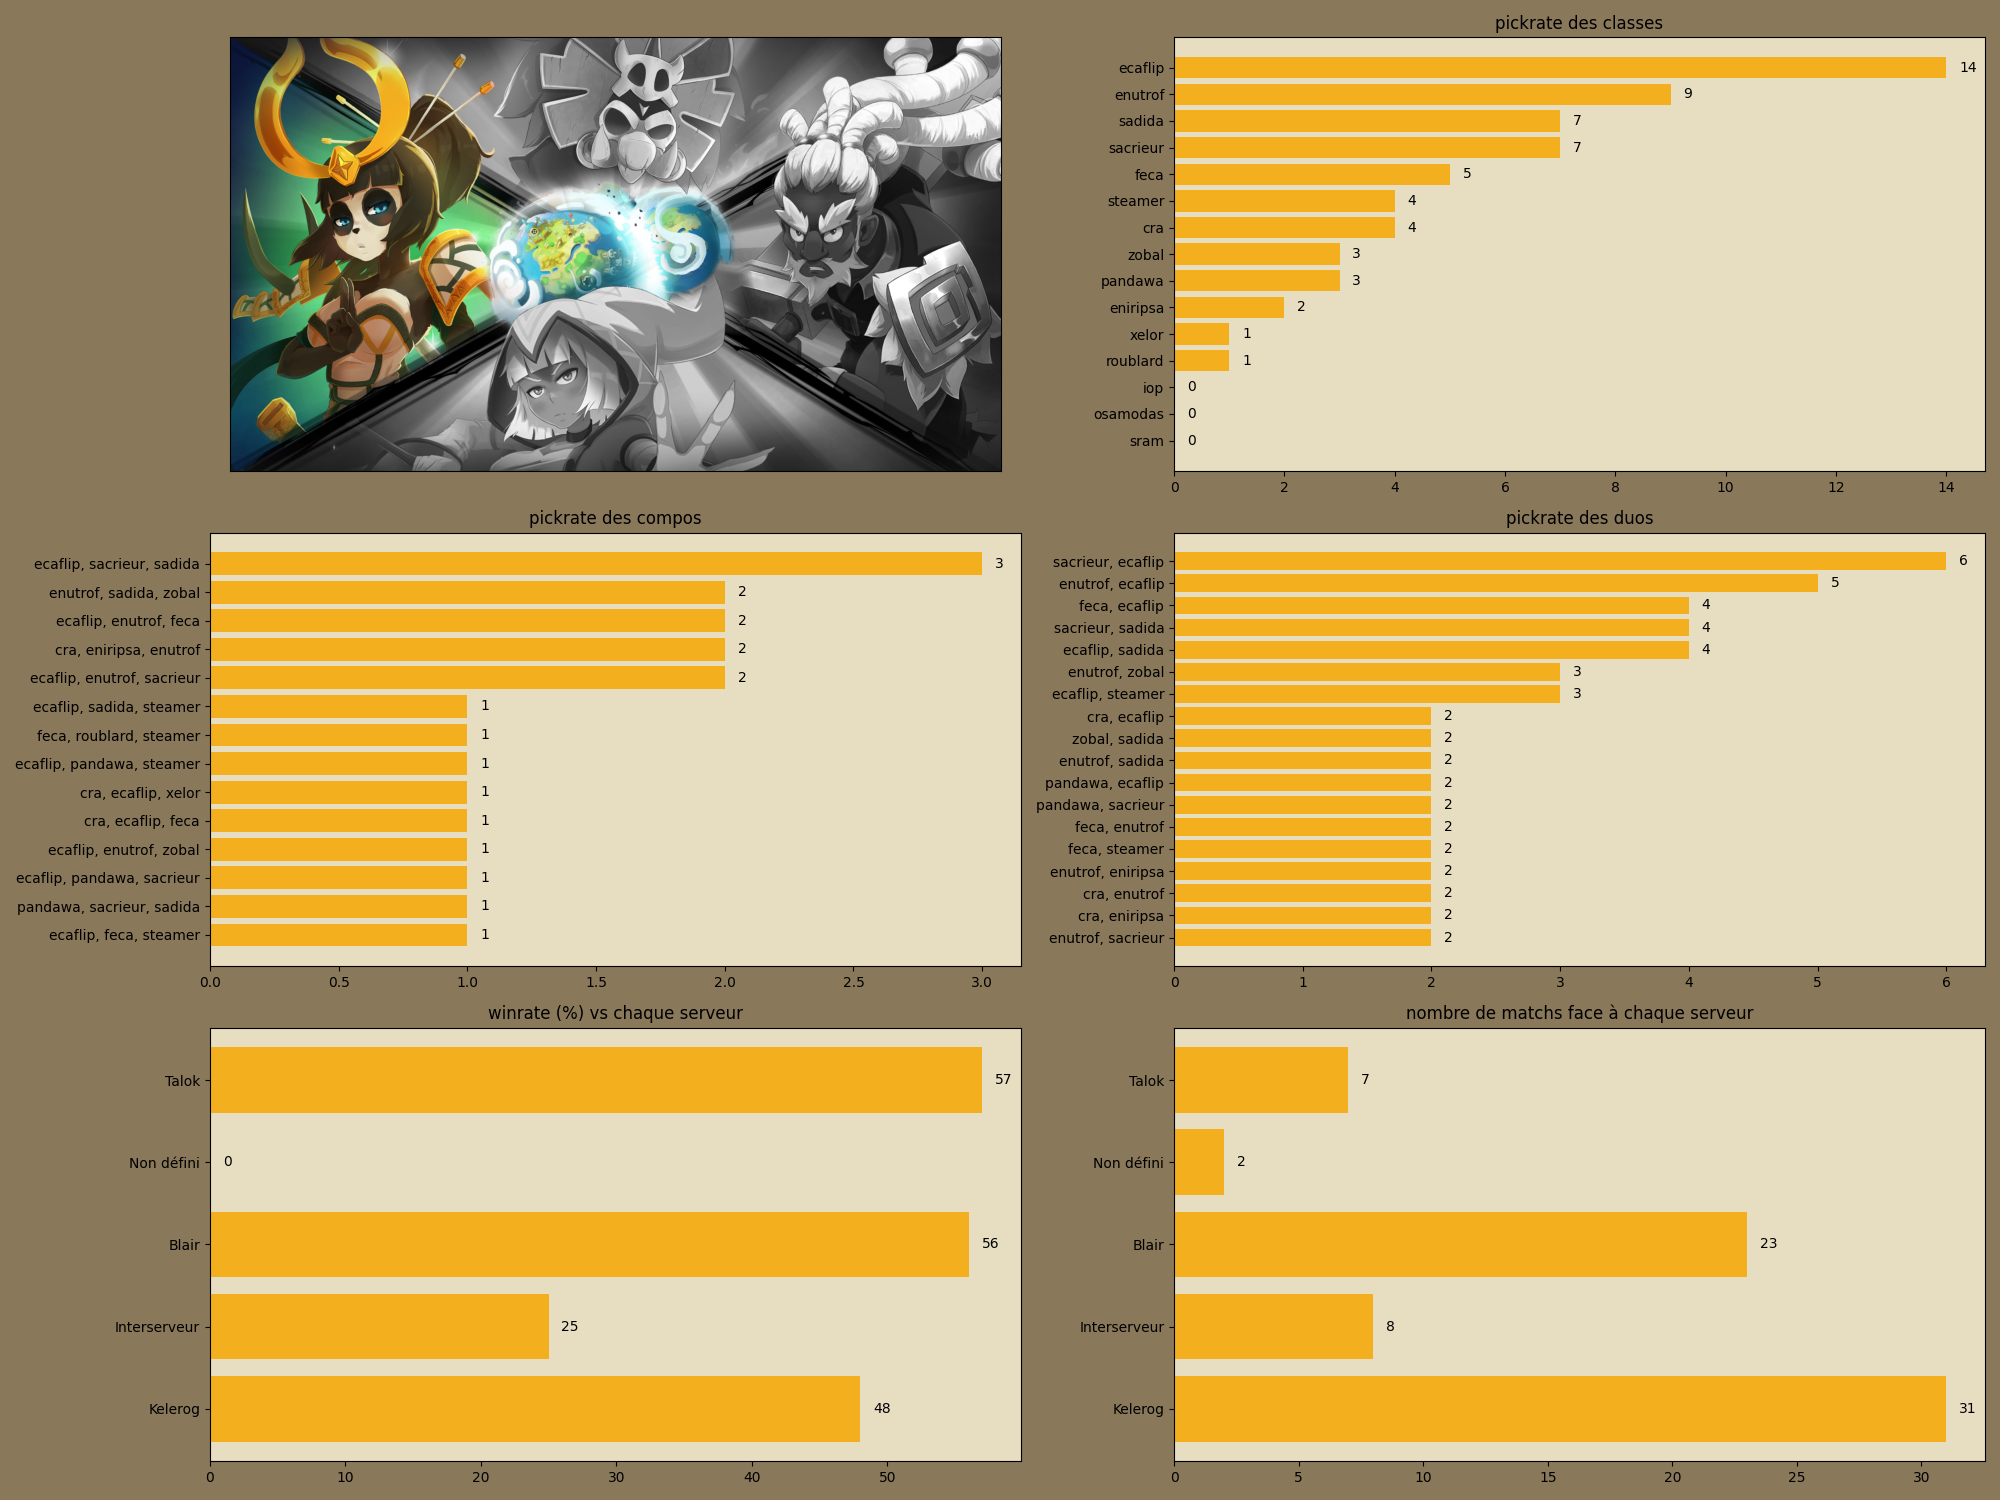
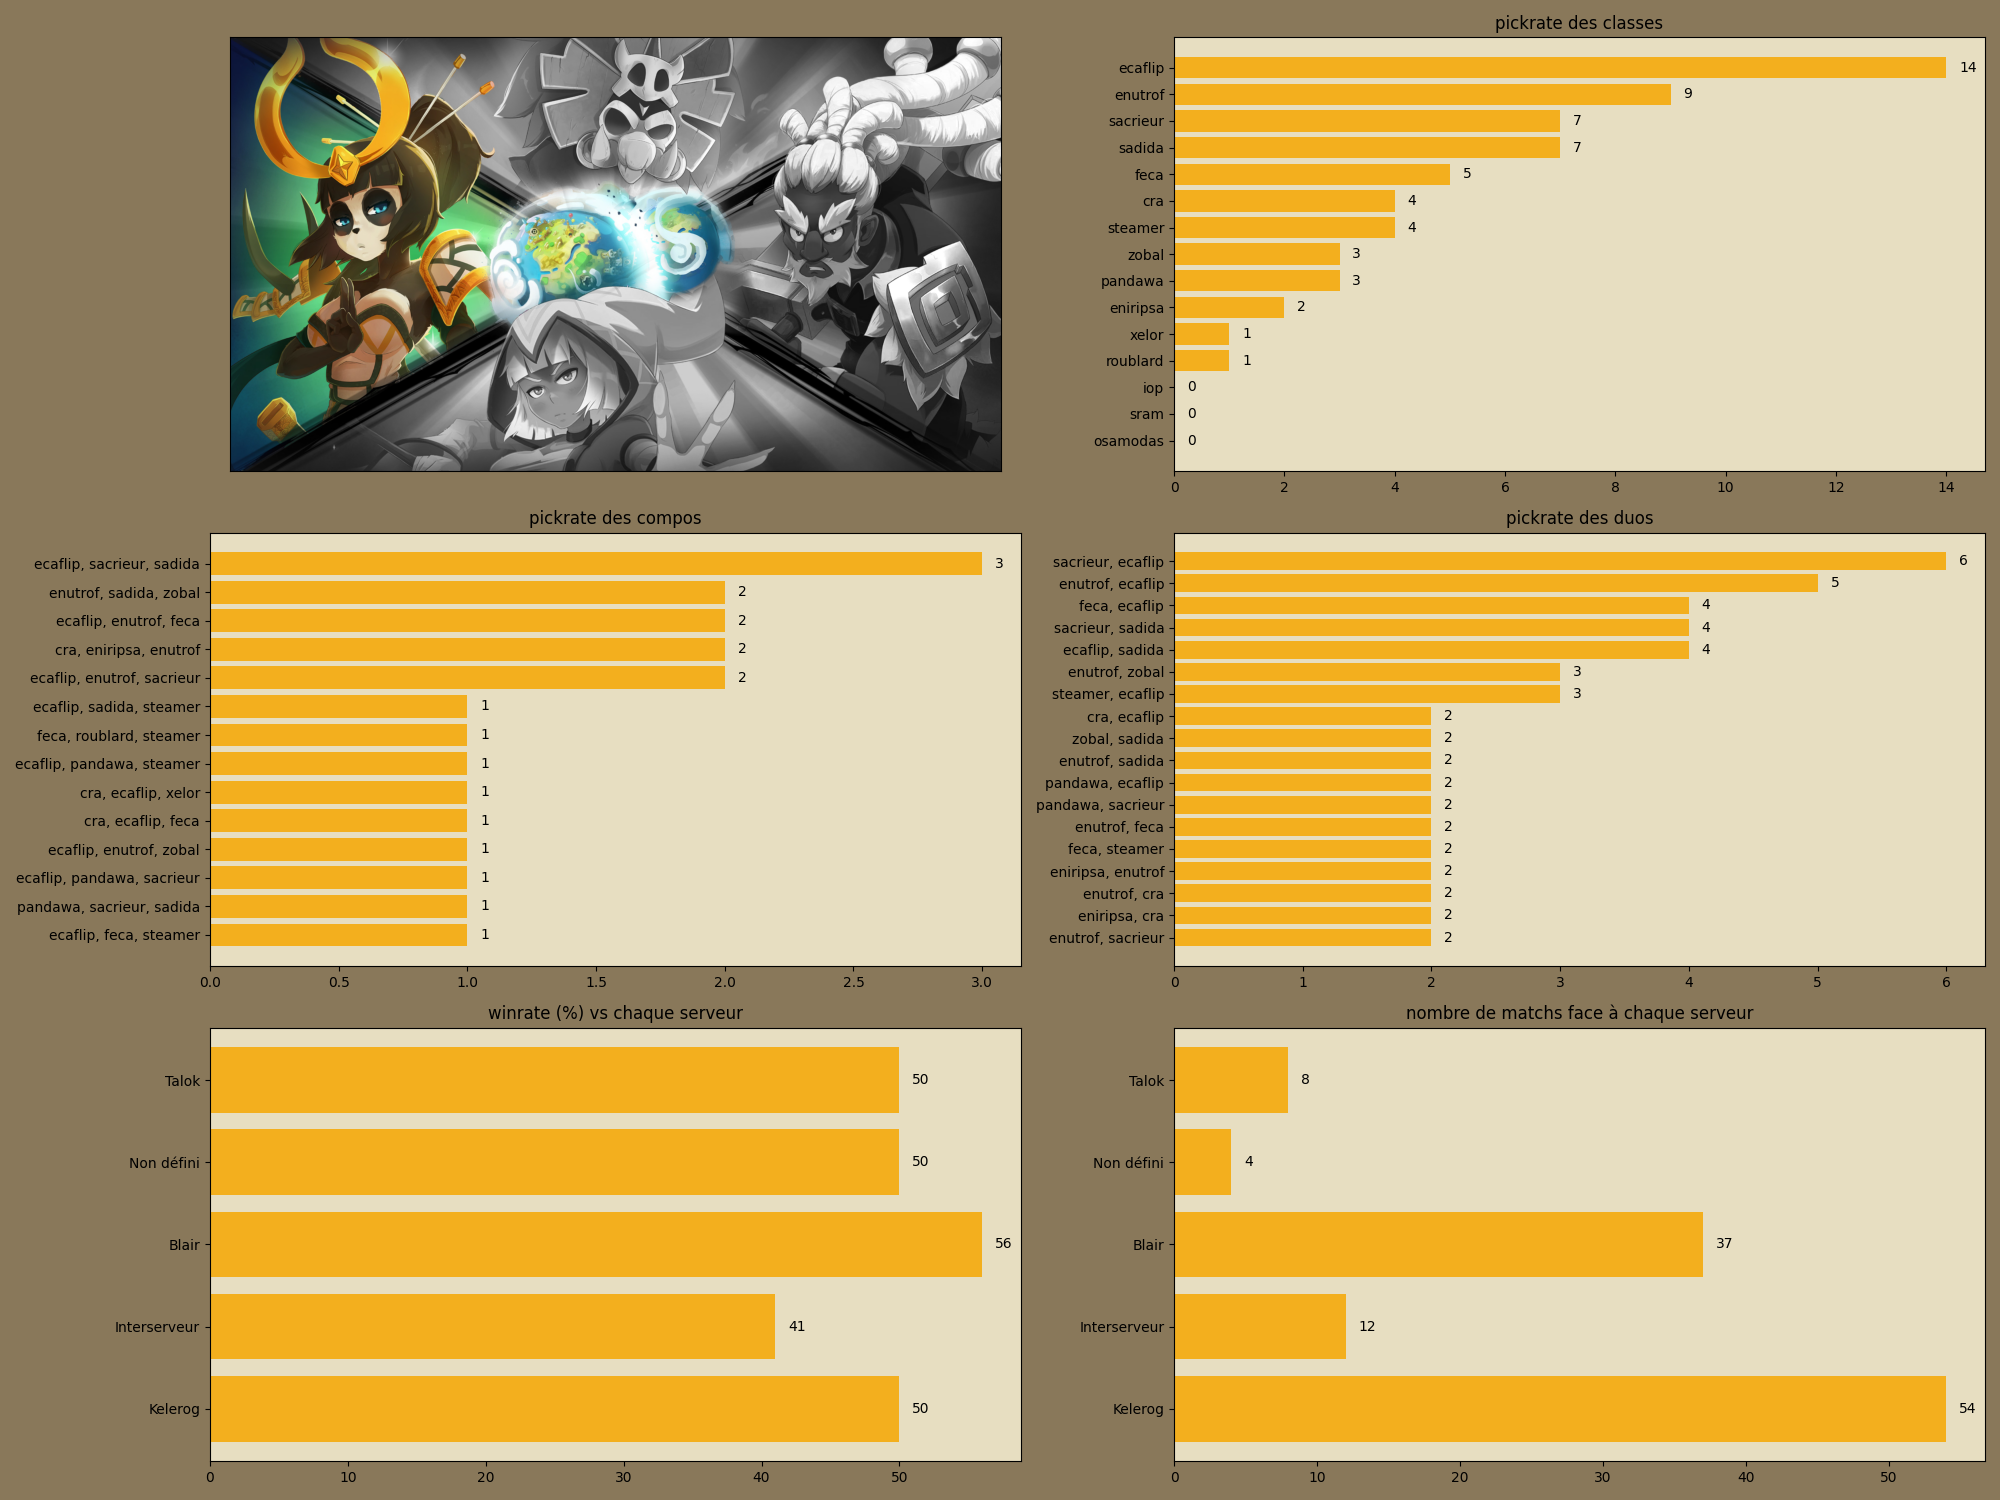
maj ronde 7

diff --git a/page_jda4.py b/page_jda4.py
@@ -6,7 +6,7 @@ st.set_page_config(page_title="CalcOfus",page_icon=image_path+"logo_InvRoxx_tab.
 
 st.sidebar.image(image_path+"logo_jda4.png" )
 
-ronde=4
+ronde=7
 st.title(f"Stats après ronde {ronde} JDA#4".upper())
 
 df=[{'C1': 'cra', 'C3': 'ecaflip', 'C2': 'xelor'},
